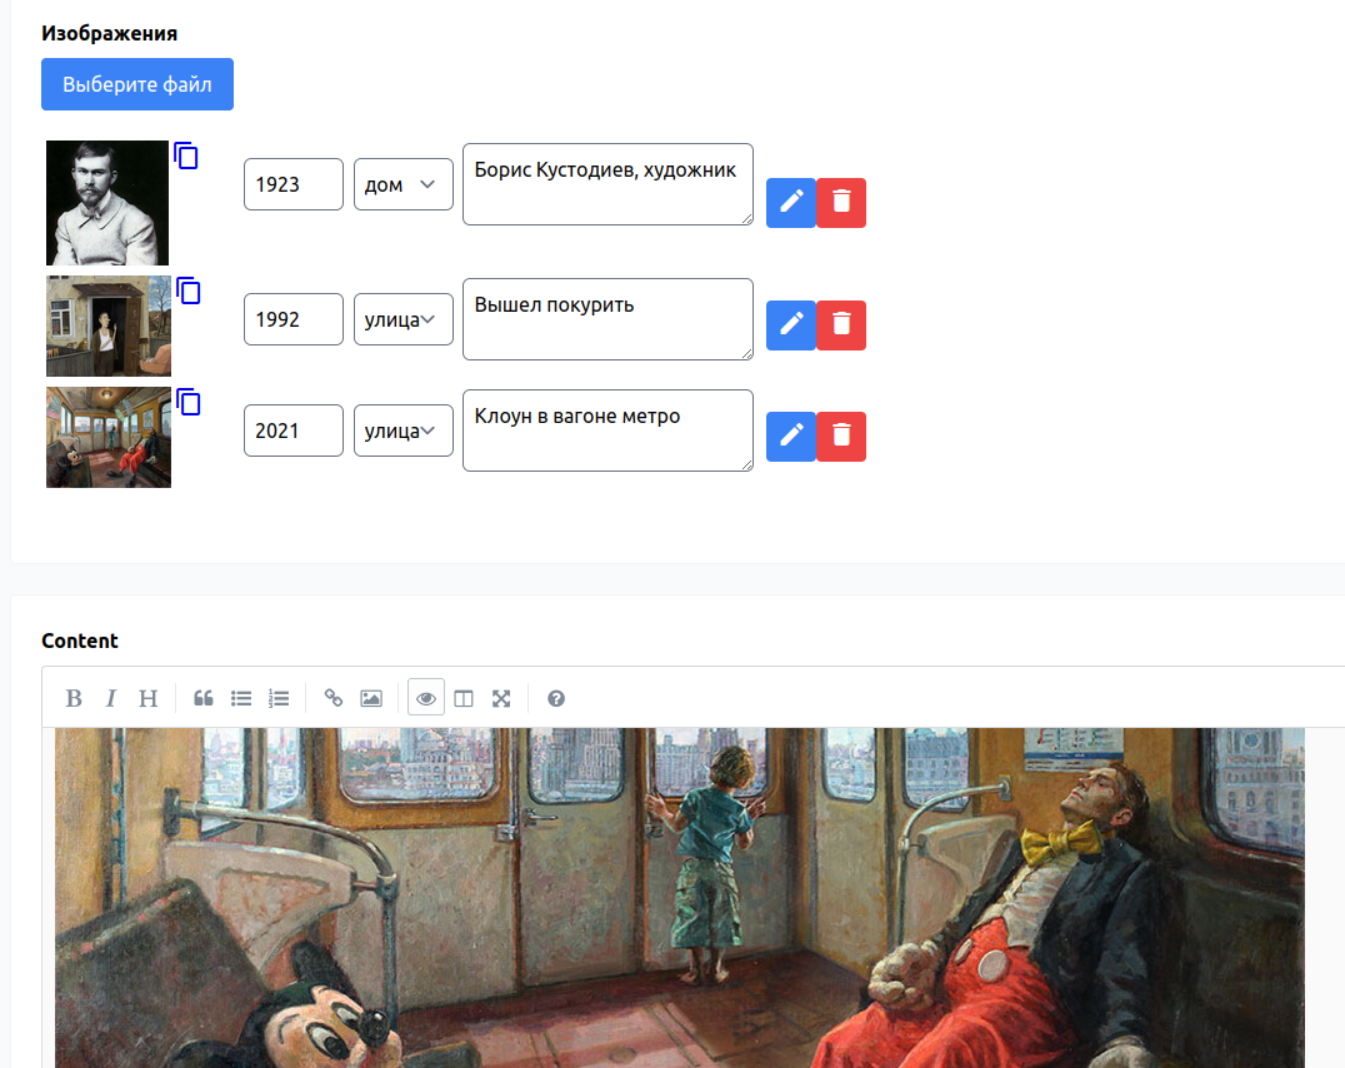
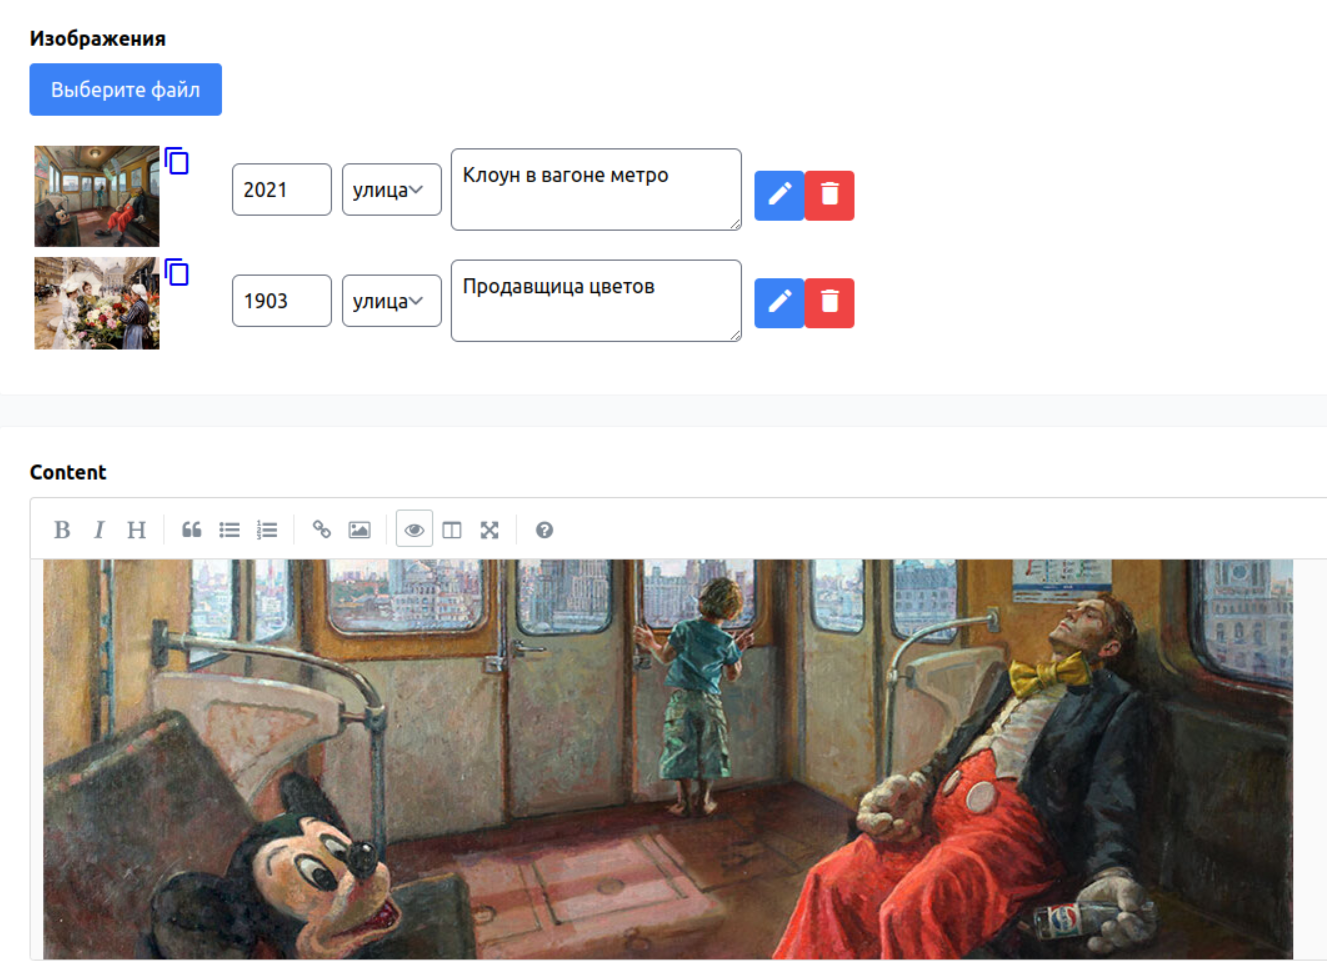
feat Added the ability to limit the number of uploaded images

diff --git a/src/Services/ImageKeeper.php b/src/Services/ImageKeeper.php
@@ -9,28 +9,13 @@ use Sergmoro1\Imageable\Models\Image;
 class ImageKeeper
 {
     /**
-     * Unsuccessful uploading. 
-     * 
-     * @param string $message
-     * @param array $params
-     * @return array with error status and message
-     */
-    private static function err(string $message, array $params = []): array
-    {
-        return [
-            'success' => 0,
-            'message' => __($message, $params),
-        ];
-    }
-    
-    /**
      * Transfer the uploaded image to the desired directory and
      * save a record of the file characteristics in the Images table.
      *
      * @param  \Illuminate\Http\Request  $request
      * @return array
      */
-    public static function proceed(Request $request, string $file_input = 'file_input'): array
+    public static function proceed(Request $request): array
     {
         $post = $request->all();
 
@@ -44,7 +29,7 @@ class ImageKeeper
         // a model that has images, such as Post
         $model = $imageable_type::find($imageable_id);
     
-        $file = $post[$file_input];
+        $file = $post['file_input'];
 
         // upload error
         if ($file->getError() !== UPLOAD_ERR_OK) {
@@ -57,7 +42,7 @@ class ImageKeeper
         }
 
         // too many files
-        if (isset($post['limit']) && $post['limit'] > count($model->images)) {
+        if ($post['limit'] > 0 && count($model->images) >= $post['limit']) {
             return self::err('imageable::messages.too_many_files', ['max' => $post['limit']]);
         }
 
@@ -94,5 +79,20 @@ class ImageKeeper
         } else {
             return self::err(__('imageable::messages.image_cant_be_saved'));
         }
+    }
+
+    /**
+     * Unsuccessful uploading. 
+     * 
+     * @param string $message
+     * @param array $params
+     * @return array with error status and message
+     */
+    private static function err(string $message, array $params = []): array
+    {
+        return [
+            'success' => 0,
+            'message' => __($message, $params),
+        ];
     }
 }

diff --git a/resources/views/upload.blade.php b/resources/views/upload.blade.php
@@ -1,27 +1,19 @@
-<div class='card'>
-  <div class="card-content">
-    <div class='field'>
-      <label class='label' for='file_input'>{{ __('imageable::messages.images') }}</label>
-      <div class='control'>
-        <label class='button blue fileinput-button' for='file_input'>
-          {{ __('imageable::messages.choose_a_file') }}
-          <input class='input' type='file' name='file_input' id='file_input' multiple>
-        </label>
-      </div>
-    </div>
-  </div>
-</div>
-<div class='card'>
-  <div class="card-content">
-    <div id='uploads'>
-      <ul class='table'>
+<div class='container'>
+  <div class="max-w px-6 pt-6 bg-white border border-gray-100 rounded">
+    <label class='label' for='file_input'>{{ __('imageable::messages.images') }}</label></p>
+    <label class='button blue fileinput-button' for='file_input'>
+      {{ __('imageable::messages.choose_a_file') }}
+      <input class='hidden' type='file' name='file_input' id='file_input' multiple>
+    </label>
+    <div id='upload'>
+      <ul class='table mt-5 mx-0'>
         @foreach ($model->images as $image)
-          <li id='{{$image->id}}'>
-            <span class='block'>
-              <img src='{{$image->getThumbnailUrl()}}' data-img='{{$image->getUrl()}}'>
+          <li id='{{$image->id}}' class='upload-table-li'>
+            <span class='thumbnail'>
+              <img class='thumbnail-img' src='{{$image->getThumbnailUrl()}}' data-img='{{$image->getUrl()}}'>
               @include('vendor.imageable.line.tools')
             </span>
-            
+
             @include('vendor.imageable.line.' . $model->getAddonFieldsView(), [
               'id' => $image->id, 
               'addons' => json_decode($image->addons)
@@ -36,3 +28,6 @@
     </div>
   </div>
 </div>
+<x-slot name="scripts">
+  <script>var uploadOptions = <?= $model->uploadOptions($limit) ?>;</script>
+</x-slot>

diff --git a/src/View/Components/Upload.php b/src/View/Components/Upload.php
@@ -3,19 +3,28 @@
 namespace Sergmoro1\Imageable\View\Components;
 
 use Illuminate\View\Component;
+use Illuminate\Database\Eloquent\Model;
 
 class Upload extends Component
 {
     /**
      * The model for which the images are being uploaded.
      * 
-     * @var object $model
+     * @var object
      */
     public $model;
 
-    public function __construct($model)
+    /**
+     * Limit on the number of images uploaded.
+     * 
+     * @var int
+     */
+    public $limit;
+
+    public function __construct(Model $model, int $limit = 0)
     {
         $this->model = $model;
+        $this->limit = $limit;
     }
 
     public function render()

diff --git a/src/Traits/HasImages.php b/src/Traits/HasImages.php
@@ -51,14 +51,16 @@ trait HasImages
     /**
      * Prepare options for uploading files.
      * 
+     * @var int limit on the number of images uploaded
      * @return string JSON array with uploading options
      */
-    public function uploadOptions(): string
+    public function uploadOptions(int $limit = 0): string
     {
         return json_encode([
             'data' => [
                 'imageable_type' => get_class(), 
                 'imageable_id' => $this->id,
+                'limit' => $limit,
             ],
             'image' => [
                 'tools' => view('vendor.imageable.line.tools')->render(),

diff --git a/README.ru.md b/README.ru.md
@@ -36,6 +36,9 @@
 Так как `css`, `js`, `views` ресурсы публикуются после установки пакета, то есть возможность менять шаблоны и
 настраивать элементы интерфейса.
 
+### Limitation of use
+На странице может располагаться только один компонент `<x-imageable-upload />`
+
 ## Installation
 Either run
 ```
@@ -72,20 +75,13 @@ class Post extends Model
 
 Всавьте компонент для загрузки изображений в любое представление.
 ```
-<x-imageable-upload :model="$post"/>
+<x-imageable-upload :model="$post" :limit=1/>
 ```
 Обратите внимание - в компоненте используется экземпляр модели, следовательно, он должен быть доступен в шаблоне.
 
-В этом же или более подходящем шаблоне необходимо вставить регистрацию опций загрузки.
-```
-    <x-slot name="scripts">
-      <script>var uploadOptions = <?= $post->uploadOptions() ?>;</script>
-    </x-slot>
-```
-Например, для модели `Post` компонет `<x-imageable-upload :model="$post"/>` вставлен в представлении
-`views/post/form.blade.php`, там же может быть выполнена регистрация опций.
+Параметр `limit` определяет количество изображений, которое может быть загружено для модели. По умолчанию `0`, что значит можно загружать любое количество изображений.
 
-Если на страницу уже подключены необходимые `css` и `js` файлыи, а это возможно, если вы уже подключали `Imageable` для другой модели, то можно загружать изображения.
+Если на страницу уже подключены необходимые `css` и `js` файлы, а это возможно, если вы уже подключали `Imageable` для другой модели, то можно загружать изображения.
 
 Если ещё нет, читайте дальше)
 
@@ -100,7 +96,8 @@ class Post extends Model
 ```
 @import "./imageable/upload.css";
 ```
-Очевидно можно вносить коррективы в определение классов в файле `resources/css/imageable.upload.css`.
+Если необходимо, можно вносить коррективы в определение классов в файле `resources/css/imageable/upload.css` 
+так как это копия аналогичного файла пакета.
 
 ## JS
 Для загрузки изображений используюется `jQuery` плагин [`simpleUpload`](http://simpleupload.michaelcbrook.com/), 
@@ -115,8 +112,8 @@ require('jquery-simple-upload/simpleUpload');
 require('./imageable/simpleUpload.js');
 ```
 
-Предполагается, что можно загрузить больше одного файла для конкретной модели, 
-поэтому можно добавить плагин [`Sortable`](https://github.com/SortableJS/Sortable) сортировки порядка изображений. 
+Если предполагается, что можно загрузить больше одного файла для конкретной модели, 
+то можно добавить плагин [`Sortable`](https://github.com/SortableJS/Sortable) сортировки порядка изображений. 
 Это важно, когда вы хотите менять порядок вывода изображений во frontend или хотите первое изображение использовать, 
 как титульное. Сортировка производится перетаскиванием мышью.
 ```
@@ -139,7 +136,7 @@ if (el) {
   });
 }
 ```
-Конечно, используемые плагины необходимо предварительно установить. 
+Конечно, используемые библиотеки и плагины необходимо предварительно установить. 
 
 ## CSS placement
 Пакет `Imageable` использует `Google Material Icons`, поэтому необходимо подключить иконки на страницу.
@@ -198,12 +195,6 @@ class Post extends Model
 
 ## Configure views
 После установки пакета файлы компонента копируются в каталог `resources\views\vendor\imageable`, где можно свободно редактировать html-разметку, менять стили и добавлять/удалять поля для описания каждого загружаемого изображения.
-
-Компонент для загрузки изображений
-```
-<x-imageable-upload :model="$model"/>
-```
-может быть вставлен в любом месте представления, не обязательно внутри тега `form`.
 
 ## Configure fields view
 Для изменения списка дополнительных полей загружемых изображений, необходимо отредактировать значения по умолчанию в переменной `addonDefaults` модели, как упоминалось выше, и представление `vendor\imageable\line\fields.blade.php`, где необходимо определить дополнительную html разметку. Пример с возможными полями и их значениями приведён в пакете в файле `fiealds-example.blade.php`.

diff --git a/README.md b/README.md
@@ -35,6 +35,9 @@ The parameter required for authentication is defined in the application configur
 Since `css`, `js`, `views` resources are published after installing the package, it is possible to change templates and
 customize interface elements.
 
+### Limitation of use
+Only one component `<x-imageable-upload />` can be placed on the page.
+
 ## Installation
 Either run
 ```
@@ -70,18 +73,11 @@ class Post extends Model
 ```
 Insert upload component in a view.
 ```
-<x-imageable-upload :model="$post"/>
+<x-imageable-upload :model="$post" :limit=1/>
 ```
 Please note that the component uses an instance of the model, therefore, it must be available in the template.
 
-In the same or more appropriate blade-template, you need to insert the registration of download options.
-```
-    <x-slot name="scripts">
-      <script>var upload Options = <?= $post->upload Options() ?>;</script>
-    </x-slot>
-```
-For example, for the `Post` model, the component `<x-imageable-upload :model="$post"/>` is inserted in the view
-`views/post/form.blade.php `, registration of options can also be performed there.
+The `limit` parameter defines the number of images that can be uploaded for the model. The default is `0', which means you can upload any number of images.
 
 If the necessary `css` and `js` files are already connected to the page, and this is possible if you have already connected `Imageable` for another model, then you can upload images.
 
@@ -98,7 +94,8 @@ add line
 ```
 @import "./imageable/upload.css";
 ```
-Obviously, you can make adjustments to the definition of classes in the file `resources/css/imageable.upload.css`.
+If necessary, you can make adjustments to the classes definition in the `resources/css/imageable/upload.css` file 
+since this is a copy of a similar package file.
 
 ## JS
 The `jQuery` plugin [`simpleUpload`](http://simpleupload.michaelcbrook.com/) is used to upload images, so you need to add `jQuery` library in the file `resources/js/app.js`.
@@ -112,7 +109,7 @@ require('jquery-simple-upload/simpleUpload');
 require('./simpleUpload.js');
 ```
 
-It is assumed that you can upload more than one file for a specific model, so you can add a plugin for sorting of images [`Sortable`](https://github.com/SortableJS/Sortable). This is important when you want to change the order of image output in frontend or want to use the first image as the main image. Sorting is performed by drag & drop the mouse.
+If you whant to upload more than one file for a specific model, you can add a plugin for sorting of images [`Sortable`](https://github.com/SortableJS/Sortable). This is important when you want to change the order of image output in frontend or want to use the first image as the main image. Sorting is performed by drag & drop the mouse.
 ```
 import Sortable from 'sortablejs';
 el = document.querySelector('ul.table');
@@ -133,7 +130,7 @@ if (el) {
   });
 }
 ```
-Of course, the plugins used must be pre-installed.
+Of course, the libs and plugins used must be pre-installed.
 
 ## CSS placement
 The `Imageable` package uses `Google Material Icons`, so you need to connect the icons to the page.
@@ -191,12 +188,6 @@ class Post extends Model
 
 ## Configure views
 After installing the package, the component files are copied to the `resources\views\vendor\imageable` directory, where you can freely edit html markup, change styles and add/remove fields to describe each uploaded image.
-
-The component for loading images can be inserted anywhere in the view. Not necessarily inside the `form` tag.
-
-```
-<x-imageable-upload :model="$post"/>
-```
 
 ## Configure fields view
 To change the list of additional fields of uploaded images, you need to edit the default values in the `addonDefaults` variable of the model, as mentioned above, and the `vendor\imageable\line\fields.blade.php` view, where it is necessary to define additional html markup. An example with possible fields and their values is given in the package in the file `fiealds-example.blade.php`.
